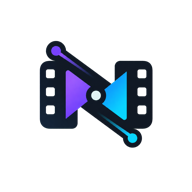
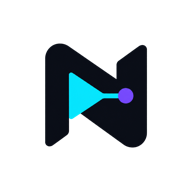
fix: simplify brand mark

Changed region(s): [[0.1875, 0.1875, 0.8125, 0.7812]]

diff --git a/docs/modules/brand-assets.md b/docs/modules/brand-assets.md
@@ -13,6 +13,9 @@ and shared asset package.
   same master PNG.
 - Dashboard and admin metadata should prefer PNG icons from public assets rather
   than an older standalone SVG mark.
+- The mark should stay simple enough for favicon use: one N-like silhouette, one
+  play/routing accent, and one node accent at most. Avoid film perforations,
+  multiple connector arms, or layered storyboard symbolism in the app icon.
 
 ## Verification
 
